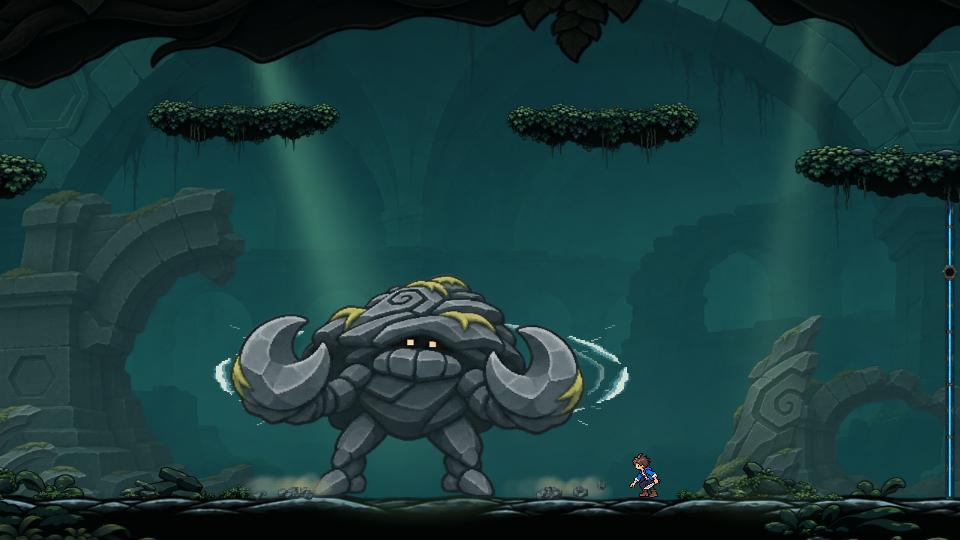
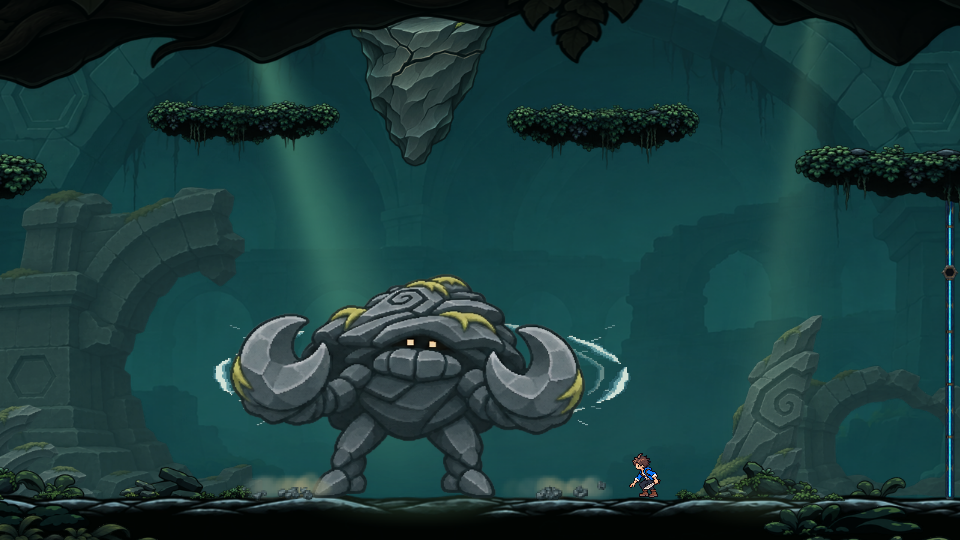
B1 보스방 천장 균열 암석 복원

Changed region(s): [[0.375, 0.0296, 0.5, 0.3259]]

diff --git a/tools/preview_b1_roar_game.py b/tools/preview_b1_roar_game.py
@@ -38,11 +38,11 @@ def _draw_replay(stage, elapsed_ms, camera_tour):
         stage.draw(elapsed_ms)
 
 
-def _read_pixels(pico, pixels):
+def _read_pixels(pico, pixels, size=SIZE):
     if pico.SDL_RenderReadPixels(pico.renderer, None, pico.SDL_PIXELFORMAT_RGBA32,
-                                pixels, SIZE[0] * 4) != 0:
+                                pixels, size[0] * 4) != 0:
         raise RuntimeError(pico.SDL_GetError())
-    return Image.frombytes("RGBA", SIZE, bytes(pixels)).convert("RGB")
+    return Image.frombytes("RGBA", size, bytes(pixels)).convert("RGB")
 
 
 def capture(pico, stage, destination, *, camera_tour=False):
@@ -81,6 +81,14 @@ def capture_stills(pico, stage, destination):
     print(f"Captured B1 inspection views: {destination}")
 
 
+def capture_full_room(pico, stage, destination, size):
+    pixels = (c_ubyte * (size[0] * size[1] * 4))()
+    stage.draw(stage.apex_ms, camera_view=(0, 0, *size))
+    destination.parent.mkdir(parents=True, exist_ok=True)
+    _read_pixels(pico, pixels, size).save(destination)
+    print(f"Captured the full B1 room: {destination}")
+
+
 def play(pico, stage, *, camera_tour=False):
     title = "RelicEscape · B1 포효 테스트 | E/R 다시 보기 · Esc 종료"
     pico.SDL_SetWindowTitle(pico.window, title.encode("utf-8"))
@@ -102,19 +110,24 @@ def main():
     output = parser.add_mutually_exclusive_group()
     output.add_argument("--capture", type=Path, metavar="WEBP", help="export the SDL scene without opening a window")
     output.add_argument("--stills", type=Path, metavar="DIR", help="export four fixed inspection views as PNGs")
+    output.add_argument("--full-room", type=Path, metavar="PNG", help="export the entire room at its native size")
     parser.add_argument("--camera-tour", action="store_true", help="pan from the passage into the arena before the roar")
     options = parser.parse_args()
     if options.capture is not None and options.capture.suffix.lower() != ".webp":
         parser.error("--capture requires a .webp filename")
-    if options.capture is not None or options.stills is not None:
+    if options.full_room is not None and options.full_room.suffix.lower() != ".png":
+        parser.error("--full-room requires a .png filename")
+    if any((options.capture, options.stills, options.full_room)):
         os.environ.setdefault("SDL_VIDEODRIVER", "dummy")
         os.environ.setdefault("SDL_AUDIODRIVER", "dummy")
         os.environ.setdefault("SDL_RENDER_DRIVER", "software")
 
     from pico2d import pico2d as pico
+    from tools.b1_room_art import ROOM_SIZE
     from tools.b1_roar_game_stage import B1RoarStage
 
-    pico.open_canvas(*SIZE)
+    canvas_size = ROOM_SIZE if options.full_room is not None else SIZE
+    pico.open_canvas(*canvas_size)
     stage = None
     try:
         stage = B1RoarStage()
@@ -122,6 +135,8 @@ def main():
             capture(pico, stage, options.capture, camera_tour=options.camera_tour)
         elif options.stills is not None:
             capture_stills(pico, stage, options.stills)
+        elif options.full_room is not None:
+            capture_full_room(pico, stage, options.full_room, canvas_size)
         else:
             play(pico, stage, camera_tour=options.camera_tour)
     finally:

diff --git a/tools/b1_room_art.py b/tools/b1_room_art.py
@@ -7,8 +7,8 @@ from PIL import Image, ImageChops, ImageOps
 from pico2d import pico2d as pico
 
 from tools.b1_combat_terrain import stage_terrain
-from tools.preview_b1_intro import ART, GROUND, SHELL_X, SIZE
-from tools.render_b1_roar_preview import PLAYER_X, rgba
+from tools.preview_b1_intro import ART, GROUND, SHELL_X
+from tools.render_b1_roar_preview import PLAYER_X, resize, rgba
 
 
 WORLD_PER_ART_PIXEL = 2
@@ -149,7 +149,8 @@ def _view_bounds(camera):
     scale = WORLD_PER_ART_PIXEL
     left = camera.x / scale
     bottom = GROUND - camera.y / scale
-    return left, bottom - SIZE[1] / (camera.zoom * scale), left + camera.view_width / scale, bottom
+    top = bottom - pico.get_canvas_height() / (camera.zoom * scale)
+    return left, top, left + camera.view_width / scale, bottom
 
 
 def _draw_plate(camera, image, left=0, top=0, *, size=None):
@@ -178,6 +179,9 @@ class B1RoomArt:
         middle = _green_grade(middle, (13, 28, 29), (119, 163, 124), .34)
         self.middle = rgba_texture(_air_mix(middle, (28, 55, 61), .18))
         self.terrain = rgba_texture(_lit_terrain())
+        boulder = rgba(ART.parent / "ceiling-rock-v2/ceiling-boulder.png")
+        boulder = resize(boulder.crop(boulder.getbbox()), (210, 219))
+        self.ceiling_boulder = rgba_texture(_green_grade(boulder, (6, 19, 13), (144, 184, 121), .22))
         self.vault = rgba_texture(_green_grade(_attached_vault(), (3, 10, 7), (101, 135, 81), .29))
         edge = _room_image(ROOM_ART / "attached-foreground.png", ROOM_SIZE)
         self.edge = rgba_texture(_light_floor_edges(edge))
@@ -211,6 +215,8 @@ class B1RoomArt:
         _draw_plate(camera, self.stele_shaft, 1368, 0)
         _draw_plate(camera, self.tunnel_glow, 1814, 493, size=(526, 268))
         _draw_plate(camera, self.terrain)
+        # The shell-breaking boulder stays above the boss after the intro rockfall.
+        _draw_plate(camera, self.ceiling_boulder, SHELL_X - 100, 42)
 
         _draw_plate(camera, self.foot_shadow, SHELL_X - 141, GROUND - 4, size=(282, 15))
         _draw_plate(camera, self.foot_shadow, PLAYER_X - 20, GROUND - 3, size=(40, 9))

diff --git a/tools/b1_roar_game_stage.py b/tools/b1_roar_game_stage.py
@@ -10,7 +10,7 @@ from pico2d import pico2d as pico
 from main import Camera
 from player import Animation, CROUCH_DURATION, Player
 from tools.b1_room_art import B1RoomArt, ROOM_ART, ROOM_SIZE, WORLD_PER_ART_PIXEL, rgba_texture
-from tools.preview_b1_intro import ART, GROUND, SHELL_X, SIZE
+from tools.preview_b1_intro import ART, GROUND, SHELL_X
 from tools.render_b1_roar_preview import FPS, PLAYER_X, RELEASE_FRAME, ROAR_ART, camera_box
 
 
@@ -56,12 +56,12 @@ class _Effect:
 
 
 class B1RoarStage:
-    """A deterministic, self-contained shot beginning after the boulder impact."""
+    """A deterministic, self-contained shot beginning after the intro rockfall."""
 
     def __init__(self, *, art_dir=ROOM_ART):
         self.room_art = B1RoomArt(art_dir)
         world_width = ROOM_SIZE[0] * WORLD_PER_ART_PIXEL
-        self.camera = Camera(SIZE[0], world_width)
+        self.camera = Camera(pico.get_canvas_width(), world_width)
         self.player = Player(PLAYER_X * WORLD_PER_ART_PIXEL, 0, world_width)
         self.player.facing = -1
 
@@ -81,7 +81,7 @@ class B1RoarStage:
             camera_view = camera_box(phase)
         left, _, right, bottom = camera_view
         scale = WORLD_PER_ART_PIXEL
-        self.camera.zoom = SIZE[0] / ((right - left) * scale)
+        self.camera.zoom = self.camera.screen_width / ((right - left) * scale)
         self.camera.x = left * scale
         self.camera.y = (GROUND - bottom) * scale
 

diff --git a/.memoc/04-handoff.md b/.memoc/04-handoff.md
@@ -25,7 +25,7 @@ Last synced: 2026-11-05T03:23:05
 
 - 2026-11-26 [하단 동선 v2 미술](../docs/map1-art-direction.md)을 본편에 적용했다. `lower_route_atmosphere.py`는 원경 시차와 틈빛을, `tools.bake_lower_route_art`는 기존 A·C 원화에서 지형과 장치를 남기는 이미지 작업을 담당한다. [SDL 6장](../docs/map1-lower-route-runtime.jpg). 전체화면 수동 조작 체감과 장치별 렌더 성능은 미측정이다.
 
-- 2026-11-26 B1 게임 테스트의 방 미술 기준은 [room-art-v4](../assets/concepts/b1-hermit-crab/room-art-v4/README.md)다. 청록 원경과 시차·조명은 `tools/b1_room_art.py`, 기존 전투방 지형 이미지의 B1 배치는 `tools/b1_combat_terrain.py`에 있다. `tools.preview_b1_roar_game --camera-tour`로 입구→포효, `--stills`로 네 지점을 재현한다. 본편 B1 연결과 실제 전투 판정은 후속이다.
+- 2026-11-27 B1 게임 테스트의 방 미술 기준은 [room-art-v4](../assets/concepts/b1-hermit-crab/room-art-v4/README.md)다. `tools/b1_room_art.py`에서 청록 원경·시차·조명과 중앙 균열 암석을 그린다. 발판·레일 배치는 `tools/b1_combat_terrain.py`에 있다. `tools.preview_b1_roar_game --camera-tour`로 입구→포효, `--stills`로 네 지점, `--full-room <PNG>`로 전체 화면을 재현한다. 본편 B1 연결과 암석 타격·낙하를 포함한 실제 전투 판정은 후속이다.
 
 - 2026-11-26 B1 포효 v4를 `tools.preview_b1_roar_game`에서 실제 SDL 텍스처·플레이어·카메라로 재생한다. 게임 화면을 저장하려면 `--capture <WebP 경로>`를 붙인다. [실행과 캡처](../assets/concepts/b1-hermit-crab/roar-v4/README.md). 본편의 C→B1 이동과 전투는 아직 연결하지 않았다.
 

diff --git a/assets/concepts/b1-hermit-crab/room-art-v4/README.md b/assets/concepts/b1-hermit-crab/room-art-v4/README.md
@@ -16,6 +16,8 @@
 | 바닥 앞 가장자리 | 판석 단면에 붙은 낮은 잎과 이끼, 뿌리. 지형과 같이 이동 |
 | 가까운 전경 | 가장자리의 어두운 뿌리와 잎. 1.10배 이동 |
 
+안쪽 발판 사이에는 기존 [균열 암석](../ceiling-rock-v2/ceiling-boulder.png)을 보스 바로 위 천장에 배치했다. 균열 암석은 은신 해제에 쓰이는 물체로, 도입의 낙석 이후 포효 장면에도 남는다. B1 테스트의 현재 적용 범위는 화면 배치다.
+
 중경 밑의 판석 잔해와 바닥 뒤쪽 이끼를 겹치고, 양옆 바닥 단면은 낮은 잎과 뿌리로 감쌌다. 중앙 전투 공간은 비워 뒀다. 천장 틈의 녹색 빛 두 줄기는 중앙과 오른쪽 비석 쪽으로 내려오고, 바닥 이끼와 앞쪽 잎이 같은 위치에서 반사광을 받는다. 빛은 각 자산의 실루엣 안에서 적용된다. [기존 가까운 전경](../room-art-v3/near-foreground.png)은 색을 맞춰 독립 레이어로 그린다. SDL에서 좌우 레일, 오른쪽 입구, 상단 발판, 포효와 입구에서 중앙으로 이동하는 시점을 확인했다. B1 테스트 장면에 적용했다.
 
 - [원경 PNG](far-background.png) · [원경 원화](source-far-ruined-hall.png) · [원경 프롬프트와 참고 ID](imagegen-far-prompt.txt)
@@ -26,4 +28,5 @@
 ```powershell
 .\.venv\Scripts\python.exe -m tools.preview_b1_roar_game --camera-tour
 .\.venv\Scripts\python.exe -m tools.preview_b1_roar_game --stills .cache/b1-room-inspection
+.\.venv\Scripts\python.exe -m tools.preview_b1_roar_game --full-room .cache/b1-room-inspection/full-room.png
 ```

diff --git a/.memoc/02-current-project-state.md b/.memoc/02-current-project-state.md
@@ -15,6 +15,8 @@ Last synced: 2026-11-05T03:23:05
 
 ## Current Status
 
+- 2026-11-27 B1 포효 테스트에서 두 안쪽 발판 사이의 기존 균열 암석을 복원했다. SDL 전체 방과 포효 화면을 갱신했다. 은신 해제용 낙하·타격 판정은 후속이다. [B1 수로 유적](../assets/concepts/b1-hermit-crab/room-art-v4/README.md)
+
 - 2026-11-27 입력의 중복 대기·제목 갱신을 제거하고 공통 정점 기록·인덱스/원형 캐시·화면 밖 빛 생략을 적용했다. 미사용 이미지5개 로딩을 제거했다. Direct3D11 CPU 경과 중앙값은 전투방10.87→6.28ms, A5.79→2.65ms이며 native 비교10장은 픽셀 일치다. [전체 성능·검증 기록](../docs/runtime-performance.md). 소프트웨어 합성 병목과 장시간 전체화면 체감은 별도 확인 대상이다.
 
 - 2026-11-26 [C 독립 석벽 전실](../assets/terrain/lower-route-c-wall-v1/README.md)을 본편에 적용했다. 새 배경·부조·전경과 국소 틈빛을 A·B 재질에 맞추고 B–C 배경을 지형 전에 이어 그린다. 문·석등·지형·공벌레 배치 기준값 일치, C SDL565·관련52개 검사 통과. [C 전후](../docs/c-passage-wall-comparison.jpg) · [왕복](../docs/c-passage-wall-connection.webp). 봉인문은 기존 닫힘 상태이며 C→B1은 미연결이다.

diff --git a/.memoc/worklog/codex/2026-11/20261127-map1-b1-ceiling-boulder-restoration.md b/.memoc/worklog/codex/2026-11/20261127-map1-b1-ceiling-boulder-restoration.md
@@ -1,0 +1,5 @@
+# B1 보스방 천장 균열 암석 복원
+
+- 기존 `ceiling-rock-v2/ceiling-boulder.png`를 두 안쪽 발판 사이 보스 바로 위에 배치했다. 방 지형과 같은 좌표로 그리며 천장 앞쪽 뿌리가 암석 윗부분을 가린다.
+- 포효 테스트의 전체 방 PNG, 전투 카메라 PNG, 입구에서 중앙으로 이동하는 WebP를 SDL에서 다시 캡처했다. 전체 방 PNG는 `tools.preview_b1_roar_game --full-room <PNG>`로 재생성한다.
+- 은신 해제용 암석은 도입 낙석과 별개다. 본편 연결과 타격·낙하 처리는 전투 구현에서 이어간다.

diff --git a/.memoc/session-summary.md b/.memoc/session-summary.md
@@ -14,7 +14,7 @@ Last: 2026-11-27 (Asia/Seoul)
 
 - 입력 대기·정점 중복 제거. 전체222개 통과. `docs/runtime-performance.md`.
 - A·B·C 독립 석벽 레이어 적용. B–C 배경은 지형 전 합성.
-- B1 v4 수로 유적·포효 SDL 검수. 본편 미연결.
+- B1 v4 포효 테스트에 천장 균열 암석 복원. 본편 미연결.
 - A 3초 발판 설치→아래→E 귀환→B. 사망 시 유지, R 초기화.
 - 공벌레→골렘→틈빛→바닥 붕괴. 수정 골렘 HP45, 방패병 HP65.
 - B 레일 무정차·왼쪽 비밀 통로. C 전실 원화 적용.
